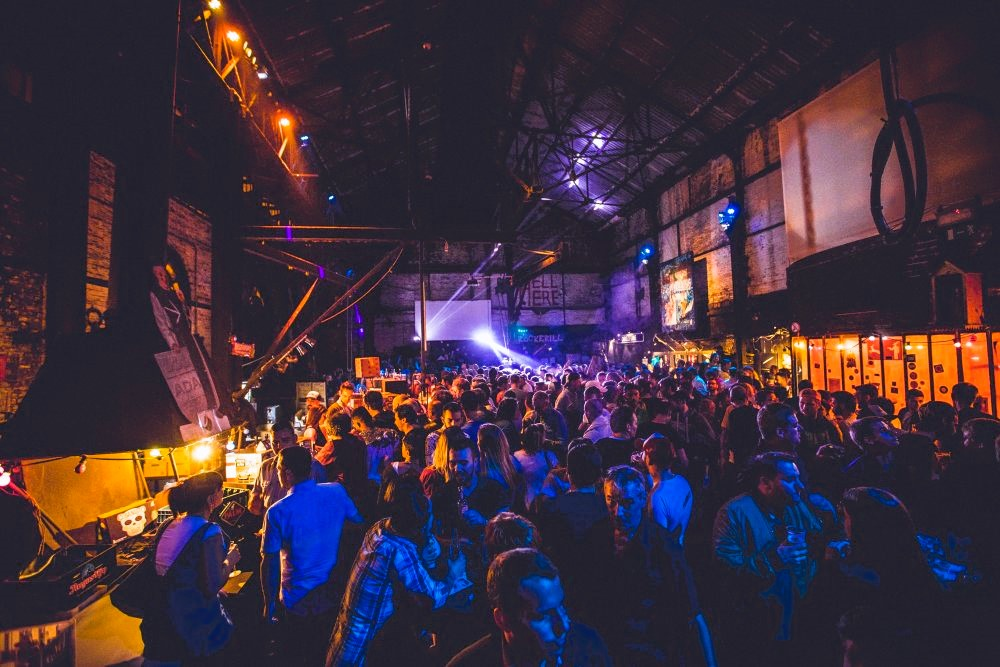
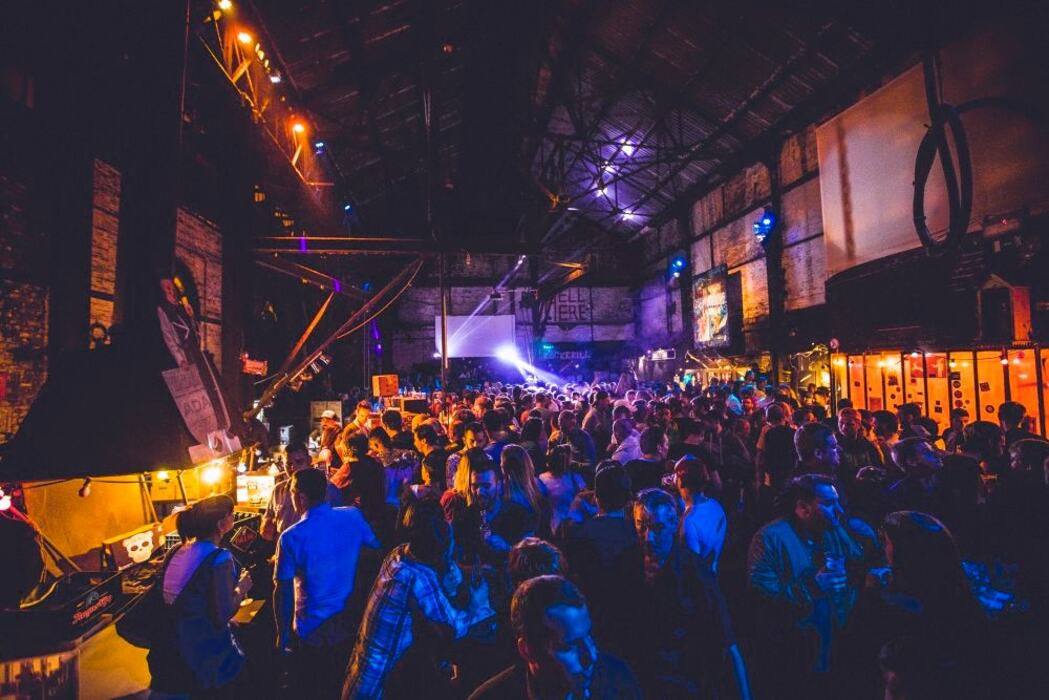
optimisation images

diff --git a/bars.html b/bars.html
@@ -26,11 +26,11 @@
 		</a>
 		<input type="checkbox" id="menu-hamburger-checkbox">
 		<ul>
-			<li><a href="index.html">Accueil</a></li>
+			<li><a href="index.html"><img src="./img/icons/accueil.png" class="menu-icon">Accueil</a></li>
 			<li>
 				<input type="checkbox" id="menu-hamburger-submenu1-checkbox" class="menu-hamburger-submenu-checkbox">
 				<label for="menu-hamburger-submenu1-checkbox">
-					<a href="bars.html">Bars et restauration</a>
+					<a href="bars.html"><img src="./img/icons/bars.png" class="menu-icon">Bars et restauration</a>
 					<i class="fa fa-caret-down" aria-hidden="true"></i>
 				</label>
 				<ul class="submenu">
@@ -41,7 +41,7 @@
 			<li>
 				<input type="checkbox" id="menu-hamburger-submenu2-checkbox" class="menu-hamburger-submenu-checkbox">
 				<label for="menu-hamburger-submenu2-checkbox">
-					<a href="#">Culture</a>
+					<a href="#"><img src="./img/icons/culture.png" class="menu-icon">Culture</a>
 					<i class="fa fa-caret-down" aria-hidden="true"></i>
 				</label>
 				<ul class="submenu">
@@ -49,12 +49,13 @@
 					<li><a href="#">Musées</a></li>
 				</ul>
 			</li>
-			<li><a href="#">Nature</a></li>
-			<li><a href="#">Shopping</a></li>
+			<li><a href="#"><img src="./img/icons/nature.png" class="menu-icon">Nature</a></li>
+			<li><a href="#"><img src="./img/icons/shopping.png" class="menu-icon">Shopping</a></li>
 		</ul>
 		<label class="menu-hamburger" for="menu-hamburger-checkbox">
 			<div class="menu-hamburger-middle"></div>
 		</label>
+		<label for="menu-hamburger-checkbox" class="menu-overlay"></label>
 	</nav>
 
 	<main>

diff --git a/index.html b/index.html
@@ -201,7 +201,7 @@
 					<div class="card">
 						<div class="card-img">
 							<span class="card-category">Restauration</span>
-							<img src="./img/cards/badfestival.png" alt="La Manufacture Urbaine">
+							<img src="./img/cards/badfestival.jpg" alt="La Manufacture Urbaine">
 						</div>
 						<div class="card-content">
 							<p class="title">BAD Festival</p>
@@ -261,7 +261,7 @@
 					<div class="card">
 						<div class="card-img">
 							<span class="card-category">Restauration</span>
-							<img src="./img/cards/badfestival.png" alt="La Manufacture Urbaine">
+							<img src="./img/cards/badfestival.jpg" alt="La Manufacture Urbaine">
 						</div>
 						<div class="card-content">
 							<p class="title">BAD Festival</p>
